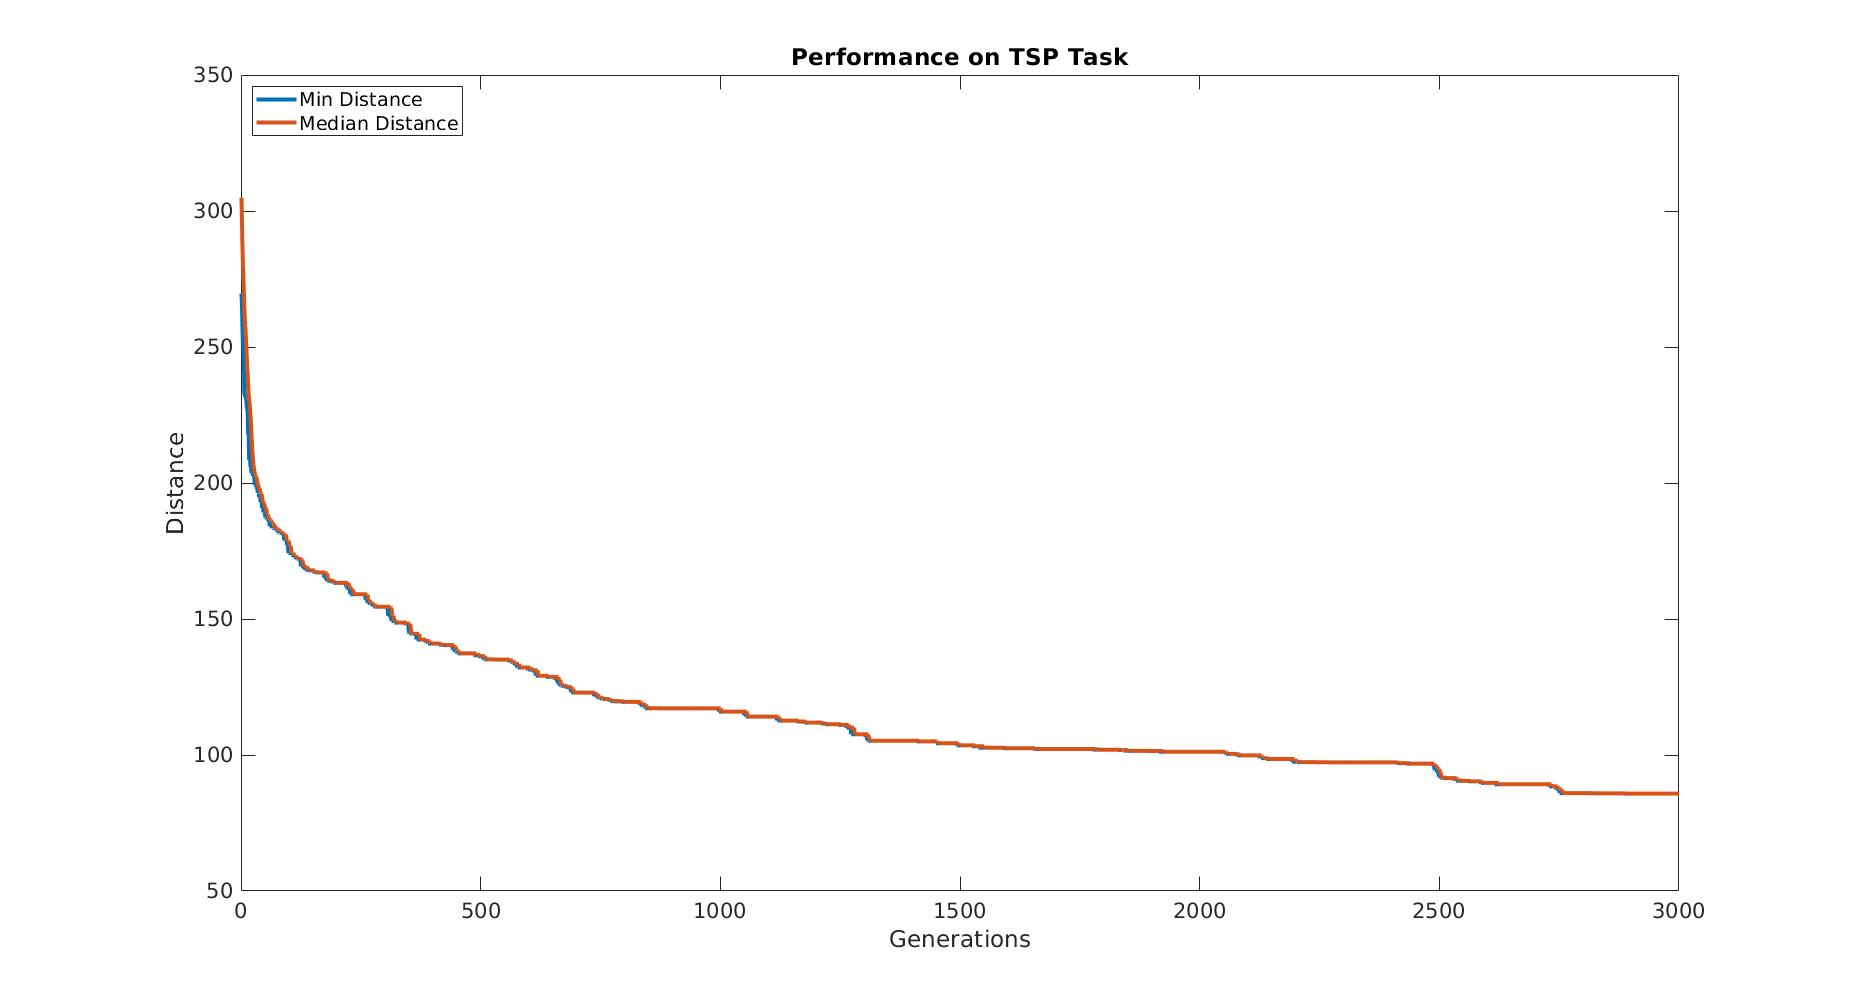
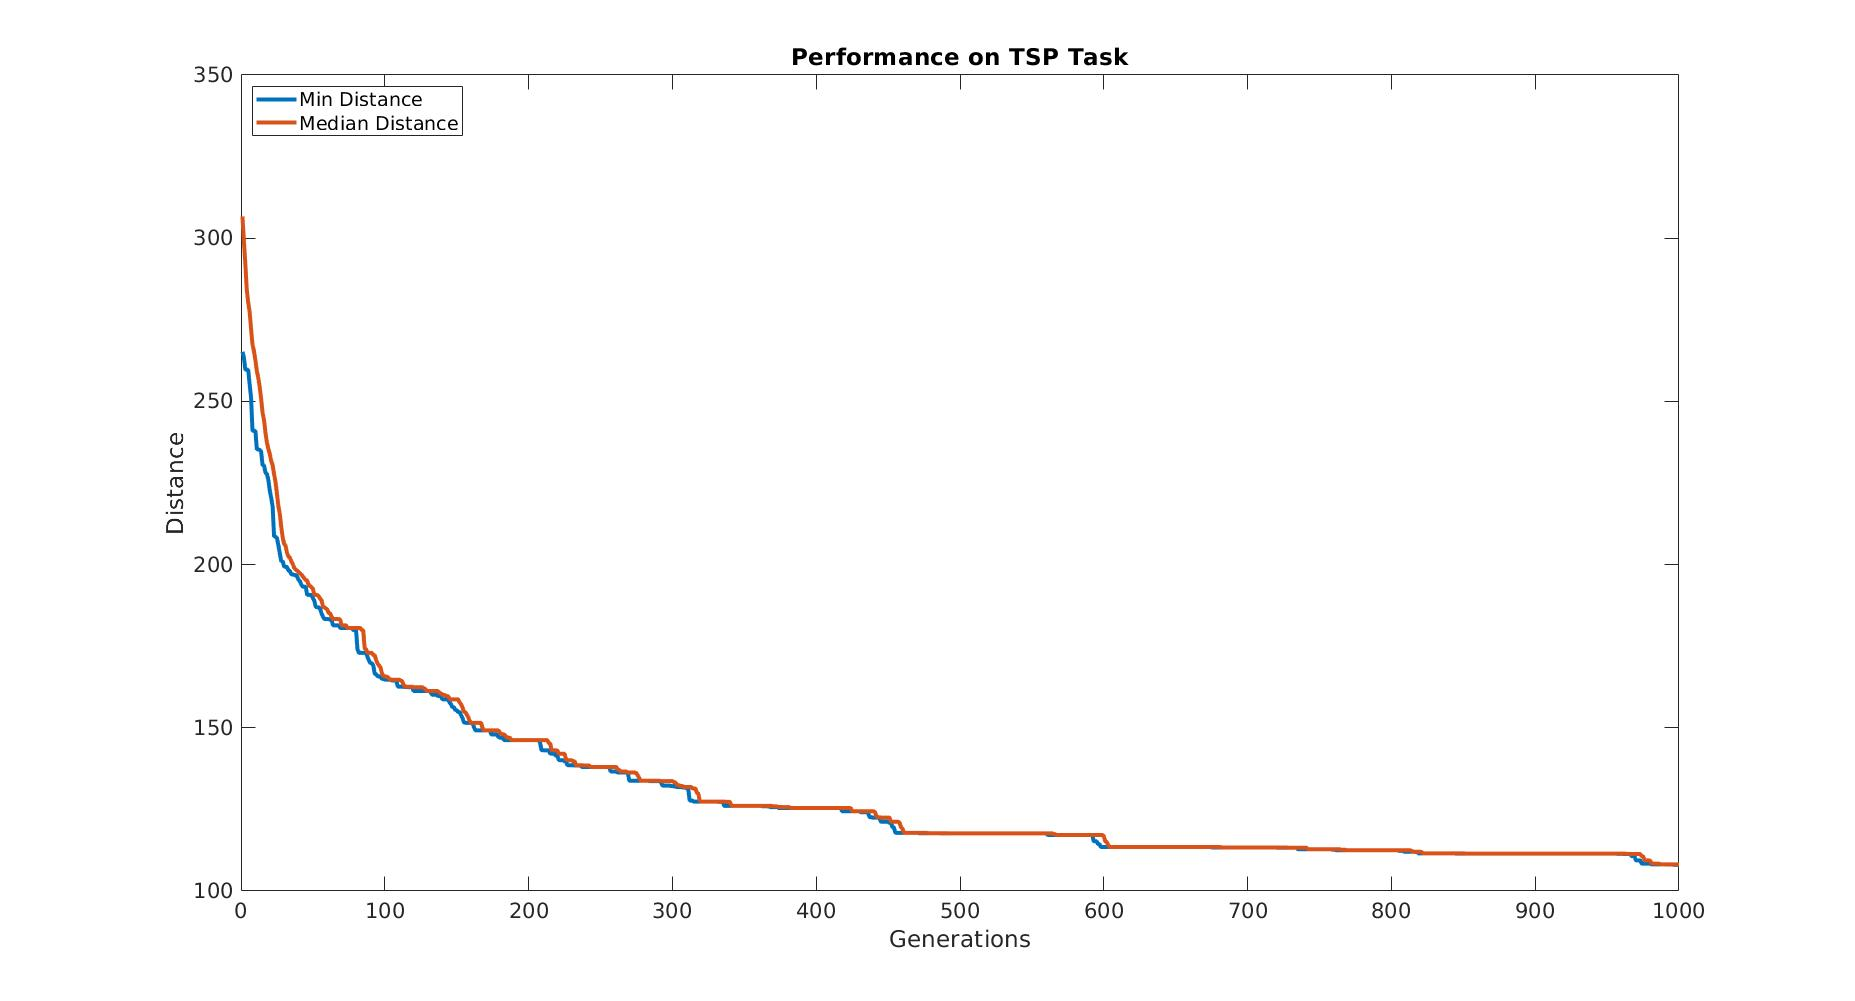
Changed number of generations to reduce execution time

diff --git a/Assignments/02/src/tspGa.m b/Assignments/02/src/tspGa.m
@@ -50,7 +50,7 @@ if nargin<2     % > When called with only the task name, this function
                                  %   return the number of genes when no
                                  %   input arguments are given to make it
                                  %   easier to switch between tasks.
-    p.maxGen    = 3000;
+    p.maxGen    = 1000;
     p.popSize   = 250;
     p.sp        = 2;
     p.crossProb = 0.8;
